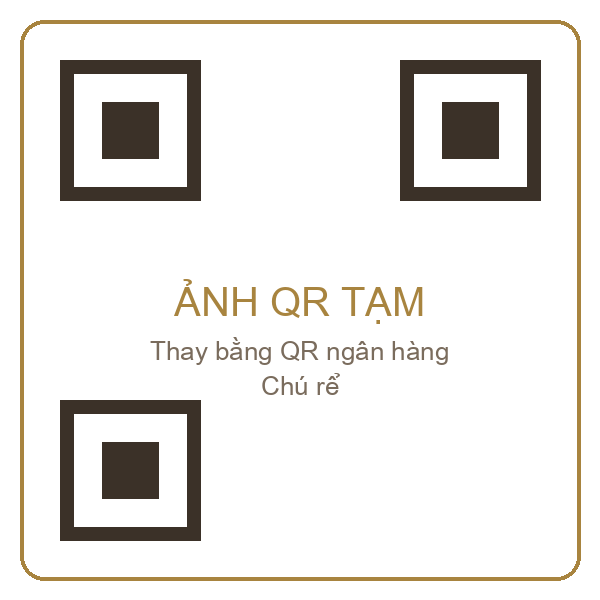
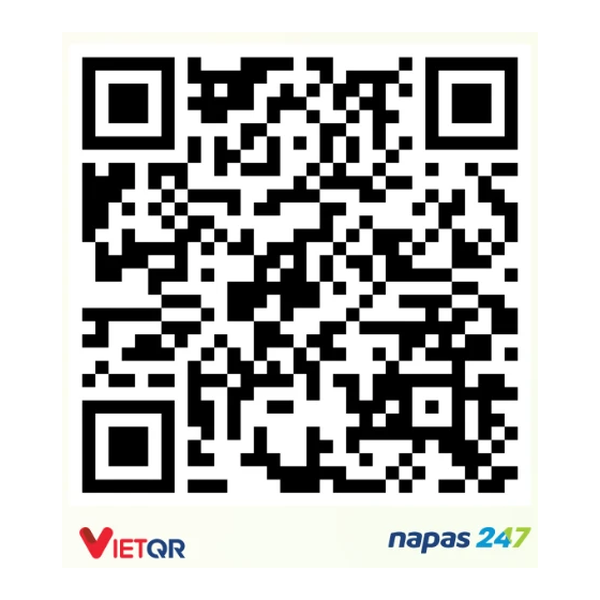
Thêm mã QR mừng cưới nhà trai (Vietcombank VU TUAN NGHIA)

diff --git a/index.html b/index.html
@@ -24,8 +24,8 @@
 <link rel="preconnect" href="https://fonts.googleapis.com">
 <link rel="preconnect" href="https://fonts.gstatic.com" crossorigin>
 <link rel="stylesheet" href="https://fonts.googleapis.com/css2?family=Great+Vibes&family=Cormorant+Garamond:ital,wght@0,300;0,400;0,500;0,600;1,400&family=Playfair+Display:ital,wght@0,400;0,500;0,600;1,400&family=Be+Vietnam+Pro:wght@300;400;500&display=swap">
-<link rel="stylesheet" href="css/style.css?v=20261122s">
-<link rel="stylesheet" href="css/paper.css?v=20261122s">
+<link rel="stylesheet" href="css/style.css?v=20261122t">
+<link rel="stylesheet" href="css/paper.css?v=20261122t">
 </head>
 <body class="locked">
 
@@ -336,8 +336,8 @@
   </div>
 </div>
 
-<script src="js/config.js?v=20261122s"></script>
-<script src="js/lunar.js?v=20261122s"></script>
-<script src="js/main.js?v=20261122s"></script>
+<script src="js/config.js?v=20261122t"></script>
+<script src="js/lunar.js?v=20261122t"></script>
+<script src="js/main.js?v=20261122t"></script>
 </body>
 </html>

diff --git a/nha-gai/index.html b/nha-gai/index.html
@@ -26,8 +26,8 @@
 <link rel="preconnect" href="https://fonts.googleapis.com">
 <link rel="preconnect" href="https://fonts.gstatic.com" crossorigin>
 <link rel="stylesheet" href="https://fonts.googleapis.com/css2?family=Great+Vibes&family=Cormorant+Garamond:ital,wght@0,300;0,400;0,500;0,600;1,400&family=Playfair+Display:ital,wght@0,400;0,500;0,600;1,400&family=Be+Vietnam+Pro:wght@300;400;500&display=swap">
-<link rel="stylesheet" href="css/style.css?v=20261122s">
-<link rel="stylesheet" href="css/paper.css?v=20261122s">
+<link rel="stylesheet" href="css/style.css?v=20261122t">
+<link rel="stylesheet" href="css/paper.css?v=20261122t">
 </head>
 <body class="locked">
 
@@ -338,8 +338,8 @@
   </div>
 </div>
 
-<script src="js/config.js?v=20261122s"></script>
-<script src="js/lunar.js?v=20261122s"></script>
-<script src="js/main.js?v=20261122s"></script>
+<script src="js/config.js?v=20261122t"></script>
+<script src="js/lunar.js?v=20261122t"></script>
+<script src="js/main.js?v=20261122t"></script>
 </body>
 </html>

diff --git a/nha-trai/index.html b/nha-trai/index.html
@@ -26,8 +26,8 @@
 <link rel="preconnect" href="https://fonts.googleapis.com">
 <link rel="preconnect" href="https://fonts.gstatic.com" crossorigin>
 <link rel="stylesheet" href="https://fonts.googleapis.com/css2?family=Great+Vibes&family=Cormorant+Garamond:ital,wght@0,300;0,400;0,500;0,600;1,400&family=Playfair+Display:ital,wght@0,400;0,500;0,600;1,400&family=Be+Vietnam+Pro:wght@300;400;500&display=swap">
-<link rel="stylesheet" href="css/style.css?v=20261122s">
-<link rel="stylesheet" href="css/paper.css?v=20261122s">
+<link rel="stylesheet" href="css/style.css?v=20261122t">
+<link rel="stylesheet" href="css/paper.css?v=20261122t">
 </head>
 <body class="locked">
 
@@ -338,8 +338,8 @@
   </div>
 </div>
 
-<script src="js/config.js?v=20261122s"></script>
-<script src="js/lunar.js?v=20261122s"></script>
-<script src="js/main.js?v=20261122s"></script>
+<script src="js/config.js?v=20261122t"></script>
+<script src="js/lunar.js?v=20261122t"></script>
+<script src="js/main.js?v=20261122t"></script>
 </body>
 </html>

diff --git a/js/config.js b/js/config.js
@@ -109,7 +109,7 @@ window.WEDDING = {
 
   // Mừng cưới ✏ (thay ảnh QR trong /assets và số tài khoản)
   gifts: [
-    { who: 'Chú rể', side: 'trai', name: 'TEN CHU RE', bank: 'Ngân hàng …', account: '0000000000', qr: 'assets/qr-chure.png' },
+    { who: 'Chú rể', side: 'trai', name: 'VU TUAN NGHIA', bank: 'Vietcombank', account: '9565682075', qr: 'assets/qr-chure.png?v=2' },
     { who: 'Cô dâu', side: 'gai', name: 'PHAM THI HOAI THU', bank: 'Vietcombank', account: '1033762689', qr: 'assets/qr-codau.png' }
   ],
 
